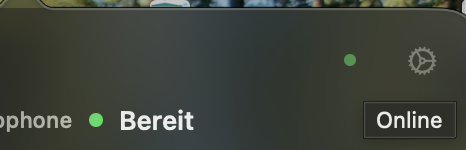
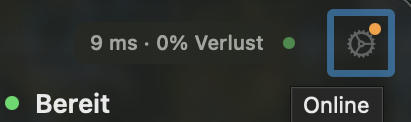
Closes #44: docs: complete README screenshots and fix display order

diff --git a/README.md b/README.md
@@ -42,24 +42,22 @@ You are welcome to use, fork, adapt, and share this project under the license te
 
 <table>
   <tr>
+    <td><img src="docs/screenshots/menubar-permissions.png" alt="First-launch permission prompt (Accessibility and Input Monitoring)" width="300"></td>
     <td><img src="docs/screenshots/menubar.png" alt="Turbotext menubar with dynamic hotkeys and Groq quota" width="300"></td>
+  </tr>
+  <tr>
     <td><img src="docs/screenshots/menubar-network-status.png" alt="Menu bar network traffic light (green/red)" width="300"></td>
+    <td><img src="docs/screenshots/settings-transcription.png" alt="Settings: transcription (online/local, mic favorites)" width="300"></td>
   </tr>
   <tr>
     <td><img src="docs/screenshots/settings-workflows.png" alt="Settings: workflows sidebar" width="300"></td>
-    <td><img src="docs/screenshots/settings-transcription.png" alt="Settings: transcription (online/local, mic favorites)" width="300"></td>
+    <td><img src="docs/screenshots/settings-hotkeys.png" alt="Settings: Tastenkürzel" width="300"></td>
   </tr>
   <tr>
     <td><img src="docs/screenshots/settings-api-keys.png" alt="Settings: Groq and OpenAI API keys" width="300"></td>
     <td><img src="docs/screenshots/settings-app-management.png" alt="Settings: app management" width="300"></td>
   </tr>
-  <tr>
-    <td><img src="docs/screenshots/settings-permissions.png" alt="Settings: Accessibility and Input Monitoring permission status (placeholder)" width="300"></td>
-    <td></td>
-  </tr>
 </table>
-
-<!-- TODO: settings-permissions.png pending — shows Accessibility + Input Monitoring grant status -->
 
 ## Requirements
 